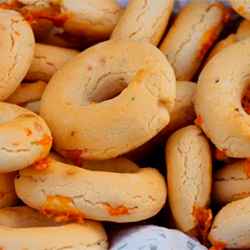
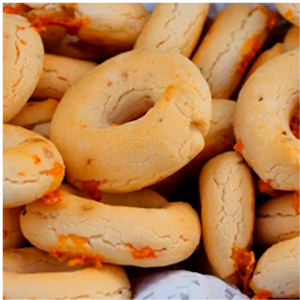
Galeria de images mejorada para estar centrada. Imagenes recortadas al mismo tamano 300x300

diff --git a/css/estilo.css b/css/estilo.css
@@ -82,6 +82,9 @@ ul{
 
 .contenedor-imagen {
 	margin-bottom: 0;
+	display: flex;
+	align-items: center;
+	justify-content: center;
 }
 
 ul {
@@ -94,16 +97,20 @@ section{
 	padding: 50px;
 }
 
-section .contenedor{
-	display: flex;
+section .galeria{
+	justify-content: center;
+	display: block; 
+	text-align: center;
+	//border: 3px solid green; //util para deputar donde esta el la galeria
 }
 
-section .contenedor .fotos{
+
+section .galeria .fotos{
 	margin:0 2px;
+
 }
 
 footer .contenedor{
-	
 	display: flex;
 	justify-content: space-between;
 }
@@ -114,7 +121,6 @@ footer{
 
 
 footer .contenedor{
-	max-width: 1366px;
 	width: 93%;
 	margin:auto;
 }

diff --git a/index.html b/index.html
@@ -47,19 +47,16 @@
 	</header>
 
 	<section>
-		<div class="contenedor">
+		<div class="galeria">
 			<div class="fotos">
 			<img src="imagenes/chipa1.png">
 			<img src="imagenes/chipa2.png">	
-			</div>
-			<div class="fotos">
 			<img src="imagenes/chipa3.png">
-			<img src="imagenes/chipa4.png">	
 			</div>
 			<div class="fotos">
+			<img src="imagenes/chipa4.png">	
 			<img src="imagenes/chipa5.png">
-			<img src="imagenes/chipa6.png">
-			<img src="imagenes/chipa8.png">	
+			<img src="imagenes/chipa9.png">
 			</div>
 				
 		</div>
